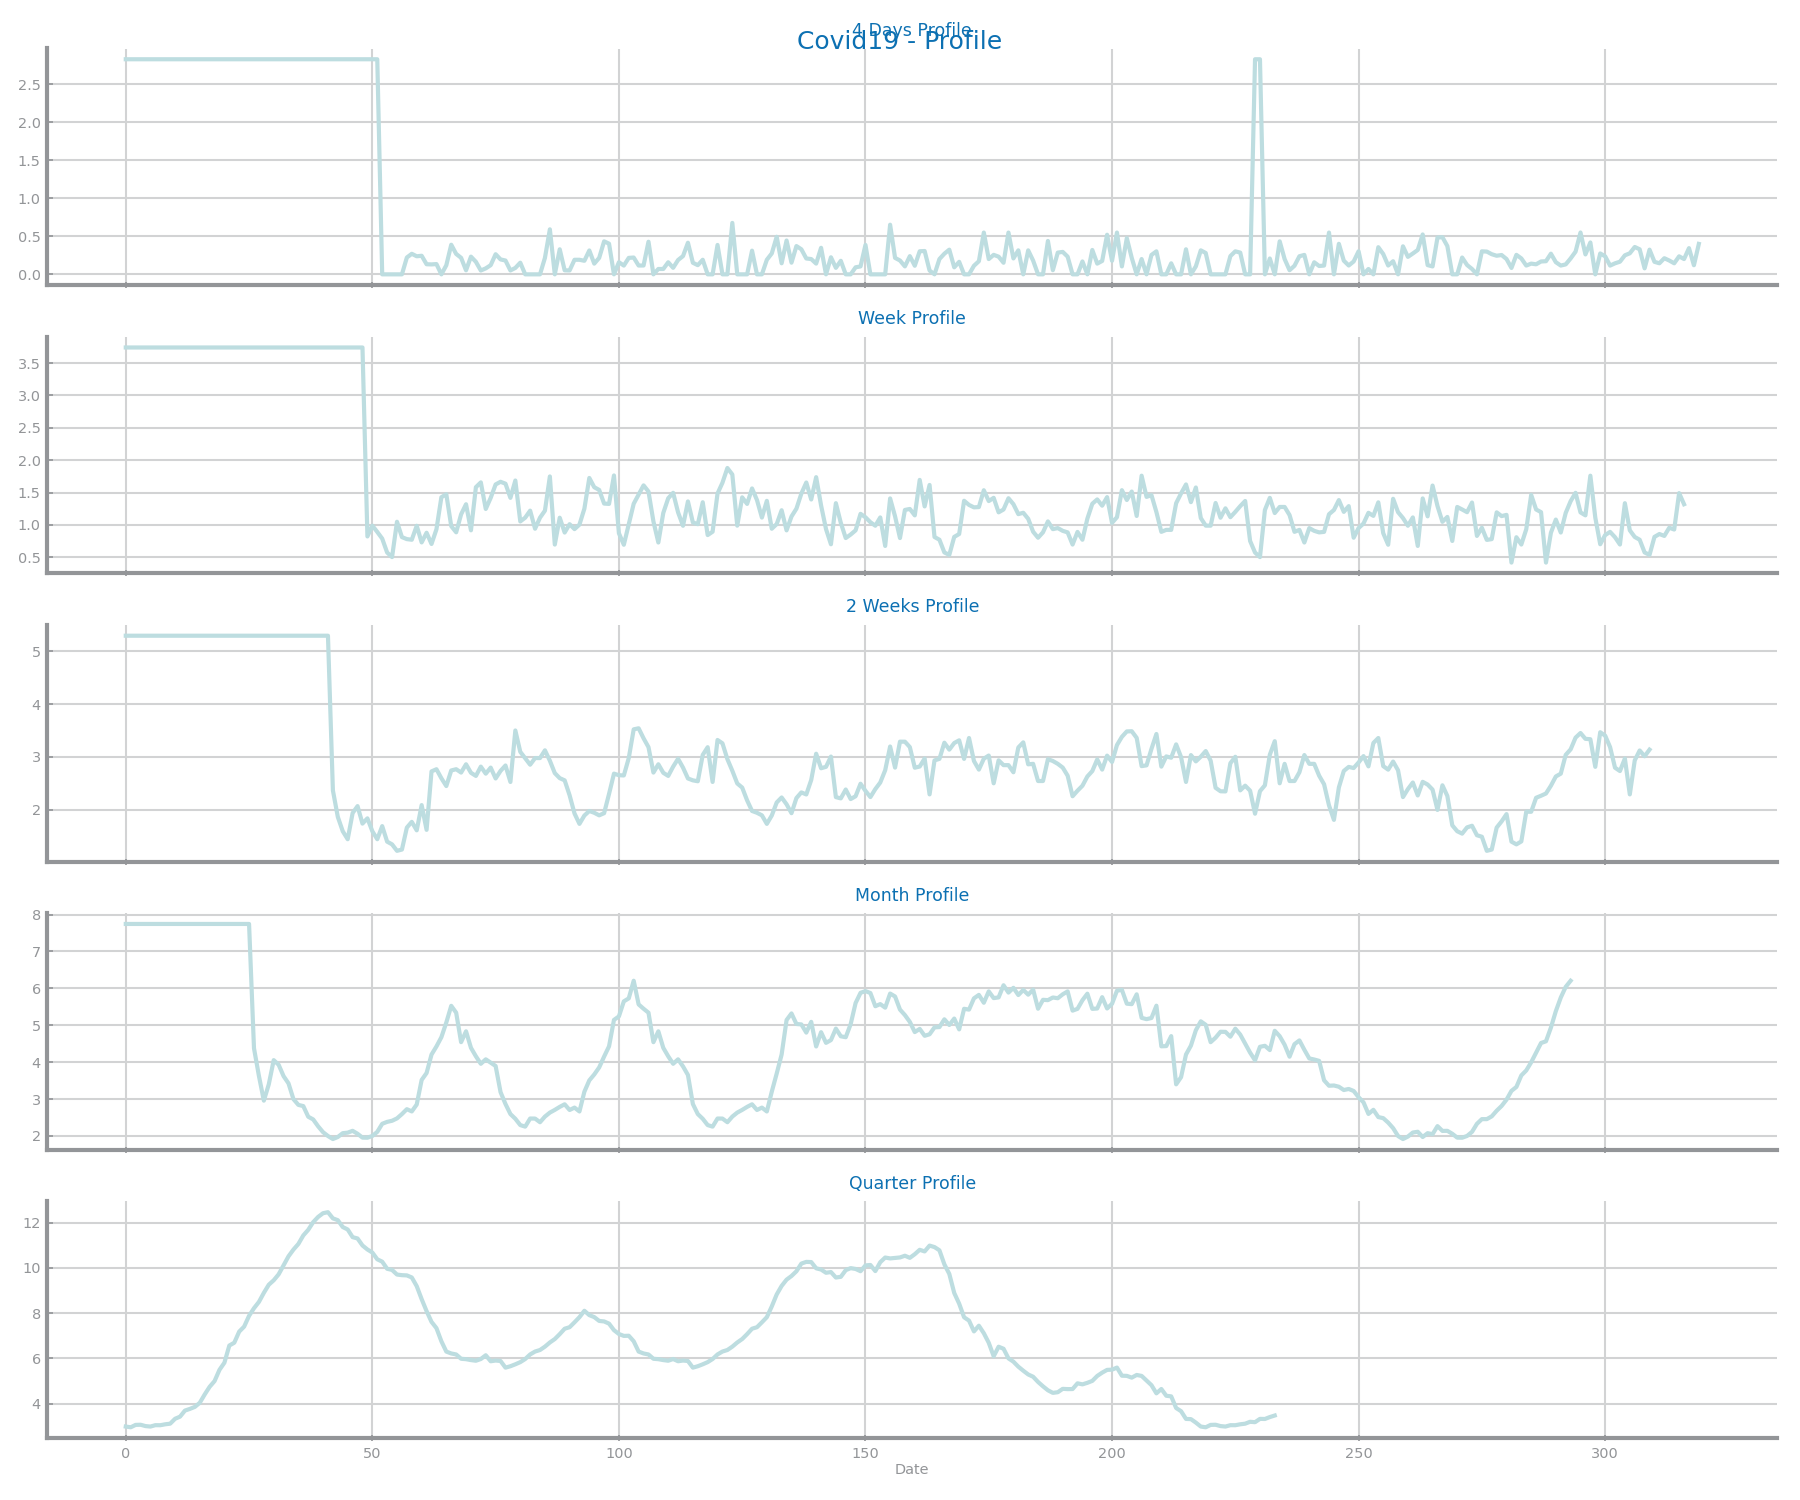
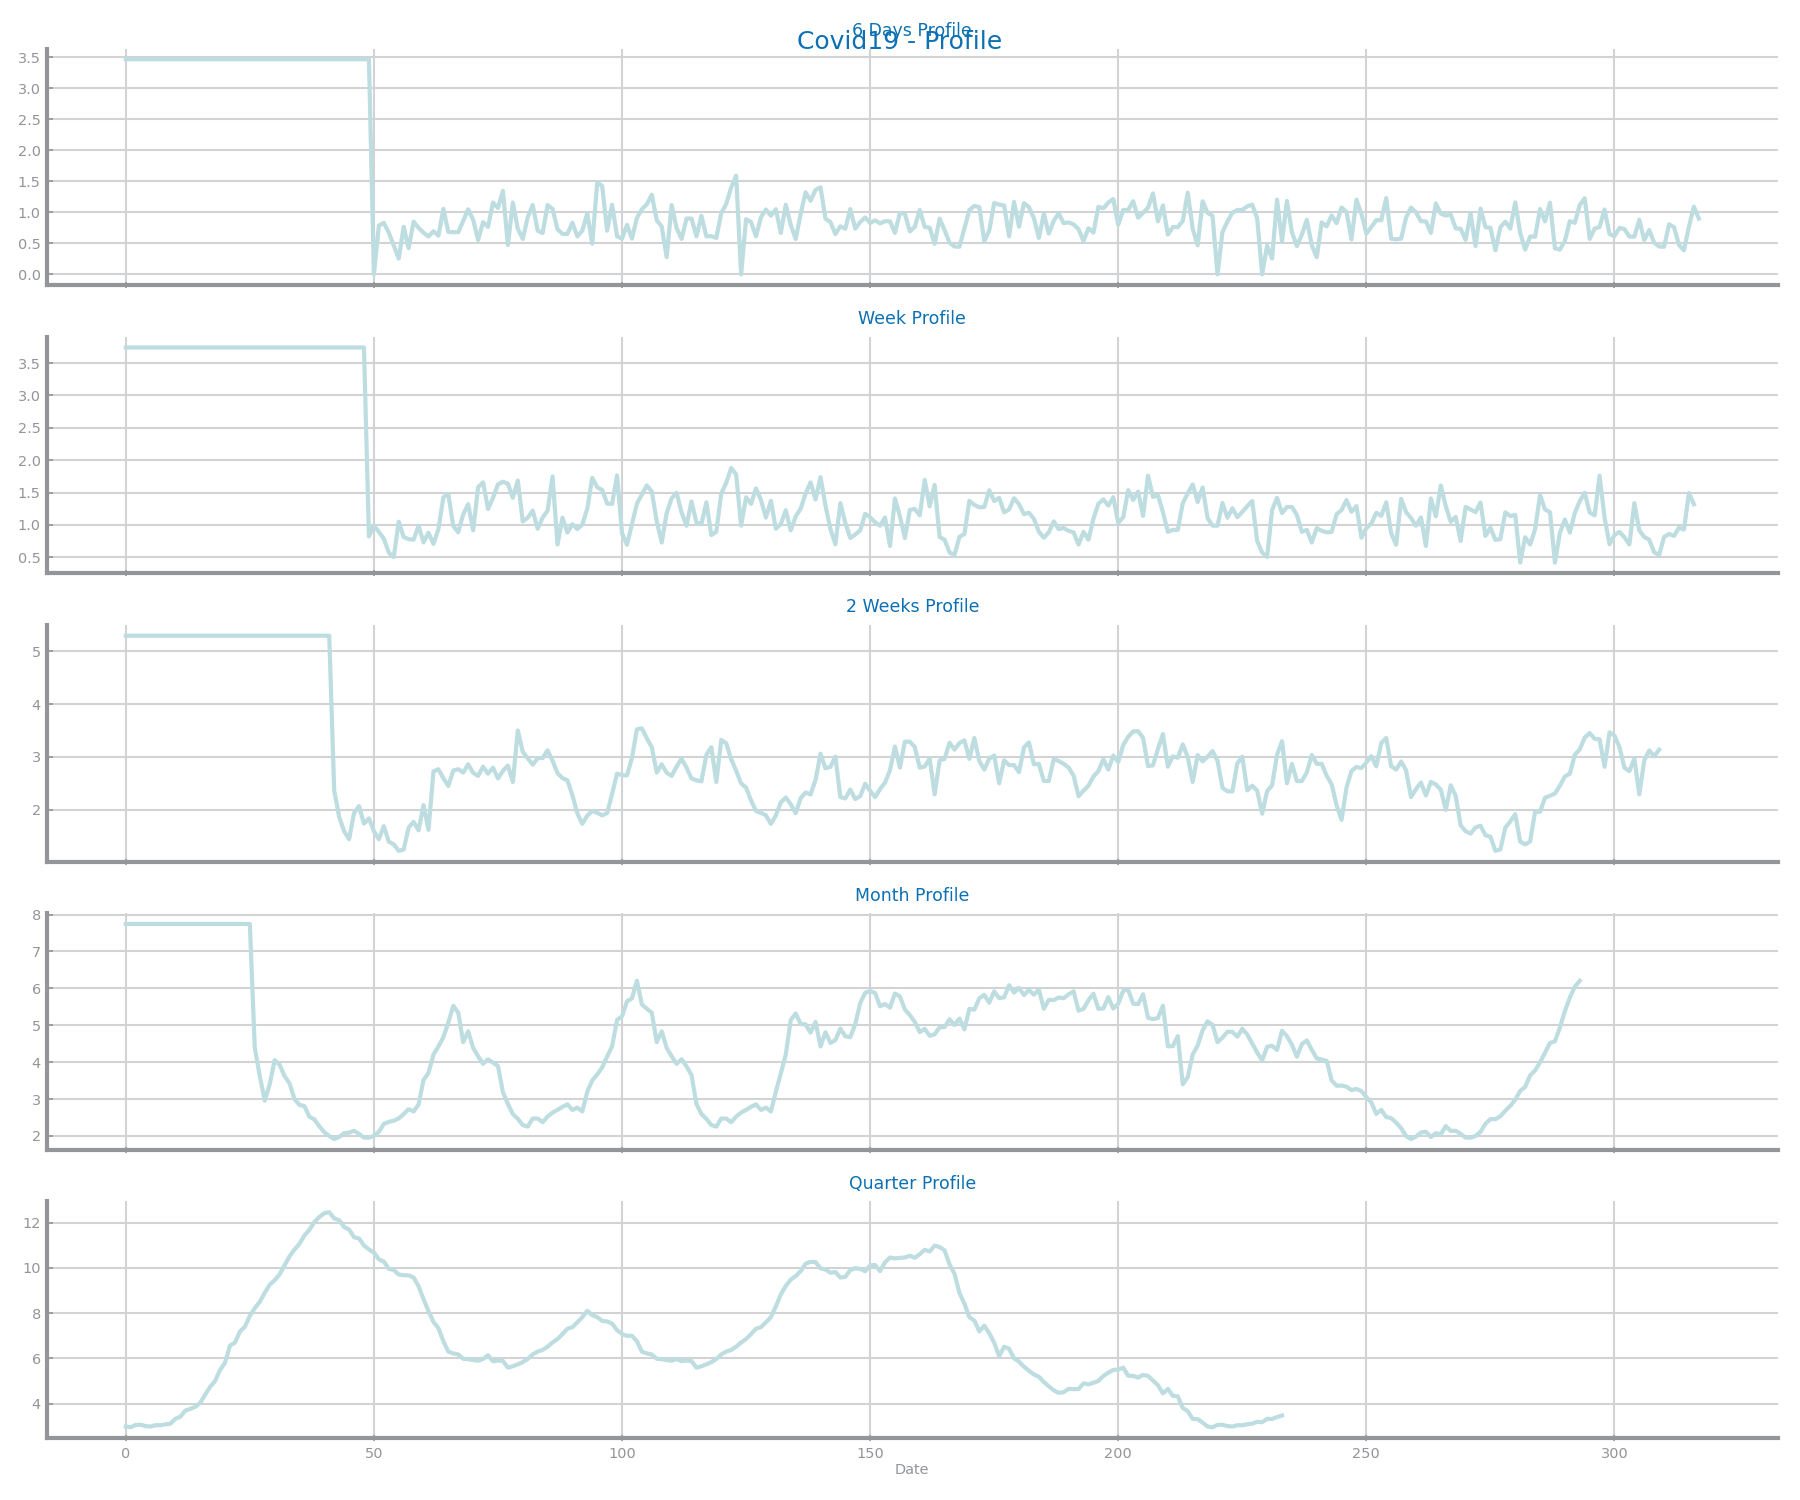
motifs

diff --git a/Last_Labs/covid19_motif_discovery.py b/Last_Labs/covid19_motif_discovery.py
@@ -37,7 +37,7 @@ if not os.path.exists(graphsDir):
 print('Covid19 - Matrix Profile')
 
 all_windows = [
-    ('4 Days', 4),
+    ('6 Days', 6),
     ('Week', 7),
     ('2 Weeks', 2 * 7),
     ('Month', 30),
@@ -83,7 +83,7 @@ if not os.path.exists(graphsDir):
 print('Covid19 - Motifs')
 
 
-compute_all_profiles(all_profiles, all_windows, k=5, type='motifs')
+compute_all_profiles(all_profiles, all_windows, k=10, type='motifs')
 
 def show_profile(profile, title, type):
     lst_figs = mp.visualize(profile)
@@ -95,6 +95,9 @@ def show_profile(profile, title, type):
 title = all_windows[0][0]+' Profile'
 show_profile(all_profiles[title], title, 'Motifs')
 #print(all_profiles[title])
+
+title = all_windows[1][0]+' Profile'
+show_profile(all_profiles[title], title, 'Motifs')
 
 title = all_windows[2][0]+' Profile'
 show_profile(all_profiles[title], title, 'Motifs')
